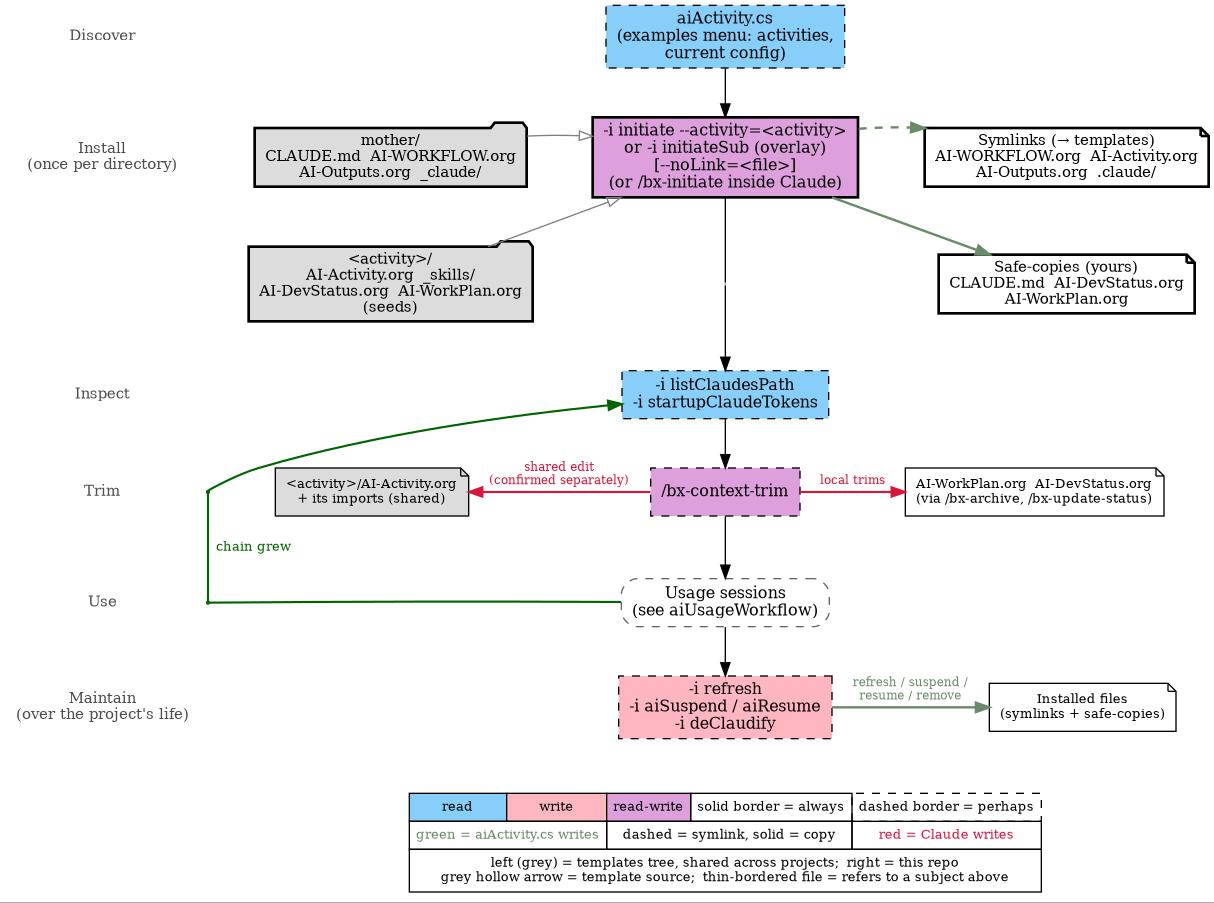
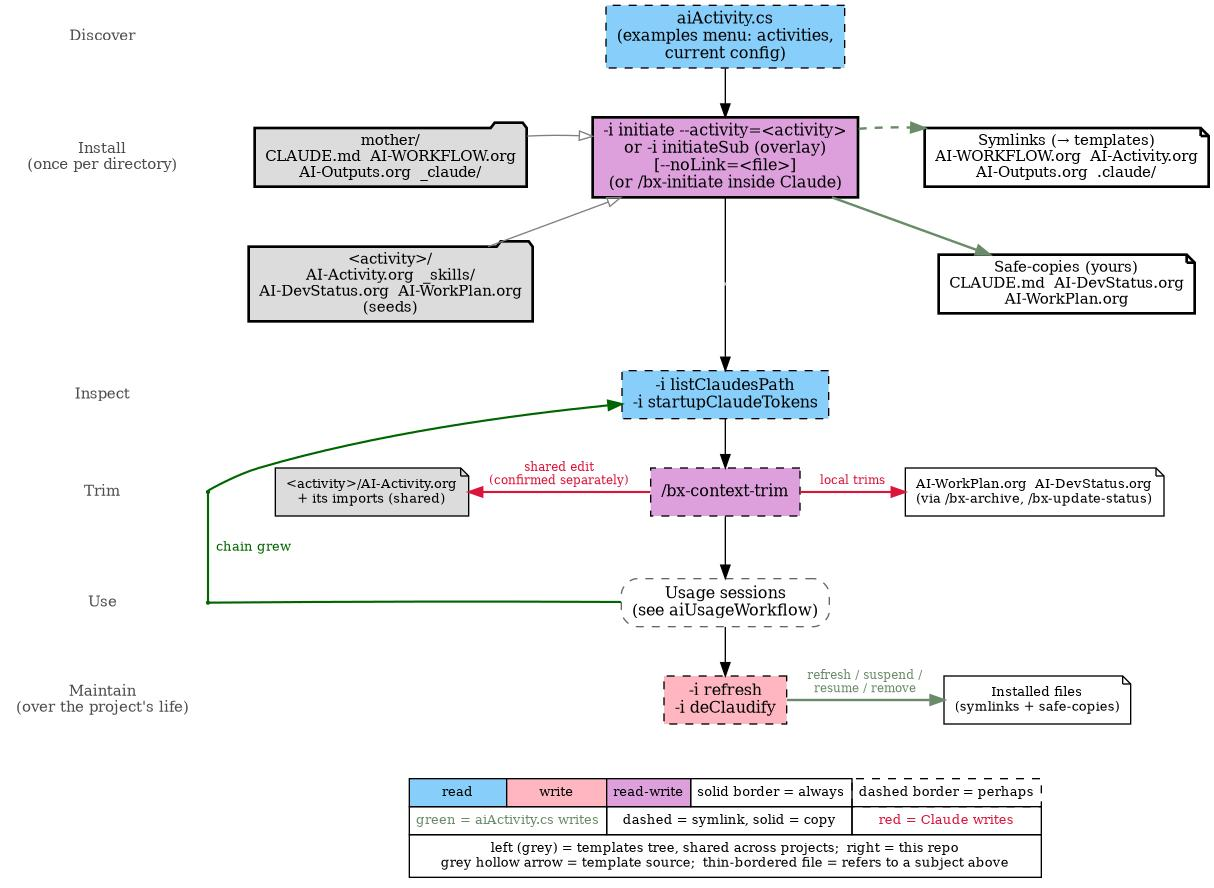
The templates no longer describe aiSuspend/aiResume, which the engine retired, and the aiActivity activity's AI-Activity.org now matches how the engine resolves templates and installs AI-Outputs.org.
AI-Activity.org drops the suspend/resume sections and states that a sub follows its parent's templates (Homogeneous by default, Heterogeneous only when named explicitly), that AI-Outputs.org is installed in every directory, and that deClaudify warns about files git lacks. writing-cs-commands' command list and the aiStartupWorkflow figure (re-rendered) are updated to match.

diff --git a/ai-templates/bisos-pip/_skills/writing-cs-commands/SKILL.md b/ai-templates/bisos-pip/_skills/writing-cs-commands/SKILL.md
@@ -183,7 +183,7 @@ paths in the argument — not absolute paths constructed from `pathlib.Path.cwd(
 
 - Templates in this repo (start here):
   - `py3/bin/aiActivity.cs` — csxu with multiple commands
-    (`initiate`, `initiateSub`, `deClaudify`, `aiSuspend`, `aiResume`,
+    (`initiate`, `initiateSub`, `refresh`, `deClaudify`,
     `userConfig_get`, `userConfig_set`, `examples`)
 - For a simple single-XU: `/bisos/core/bpip/examples/exmpl-xu-oneSubProc.cs`
 - For CS-Unit patterns: `bisos.b.userConfig_csu` in
